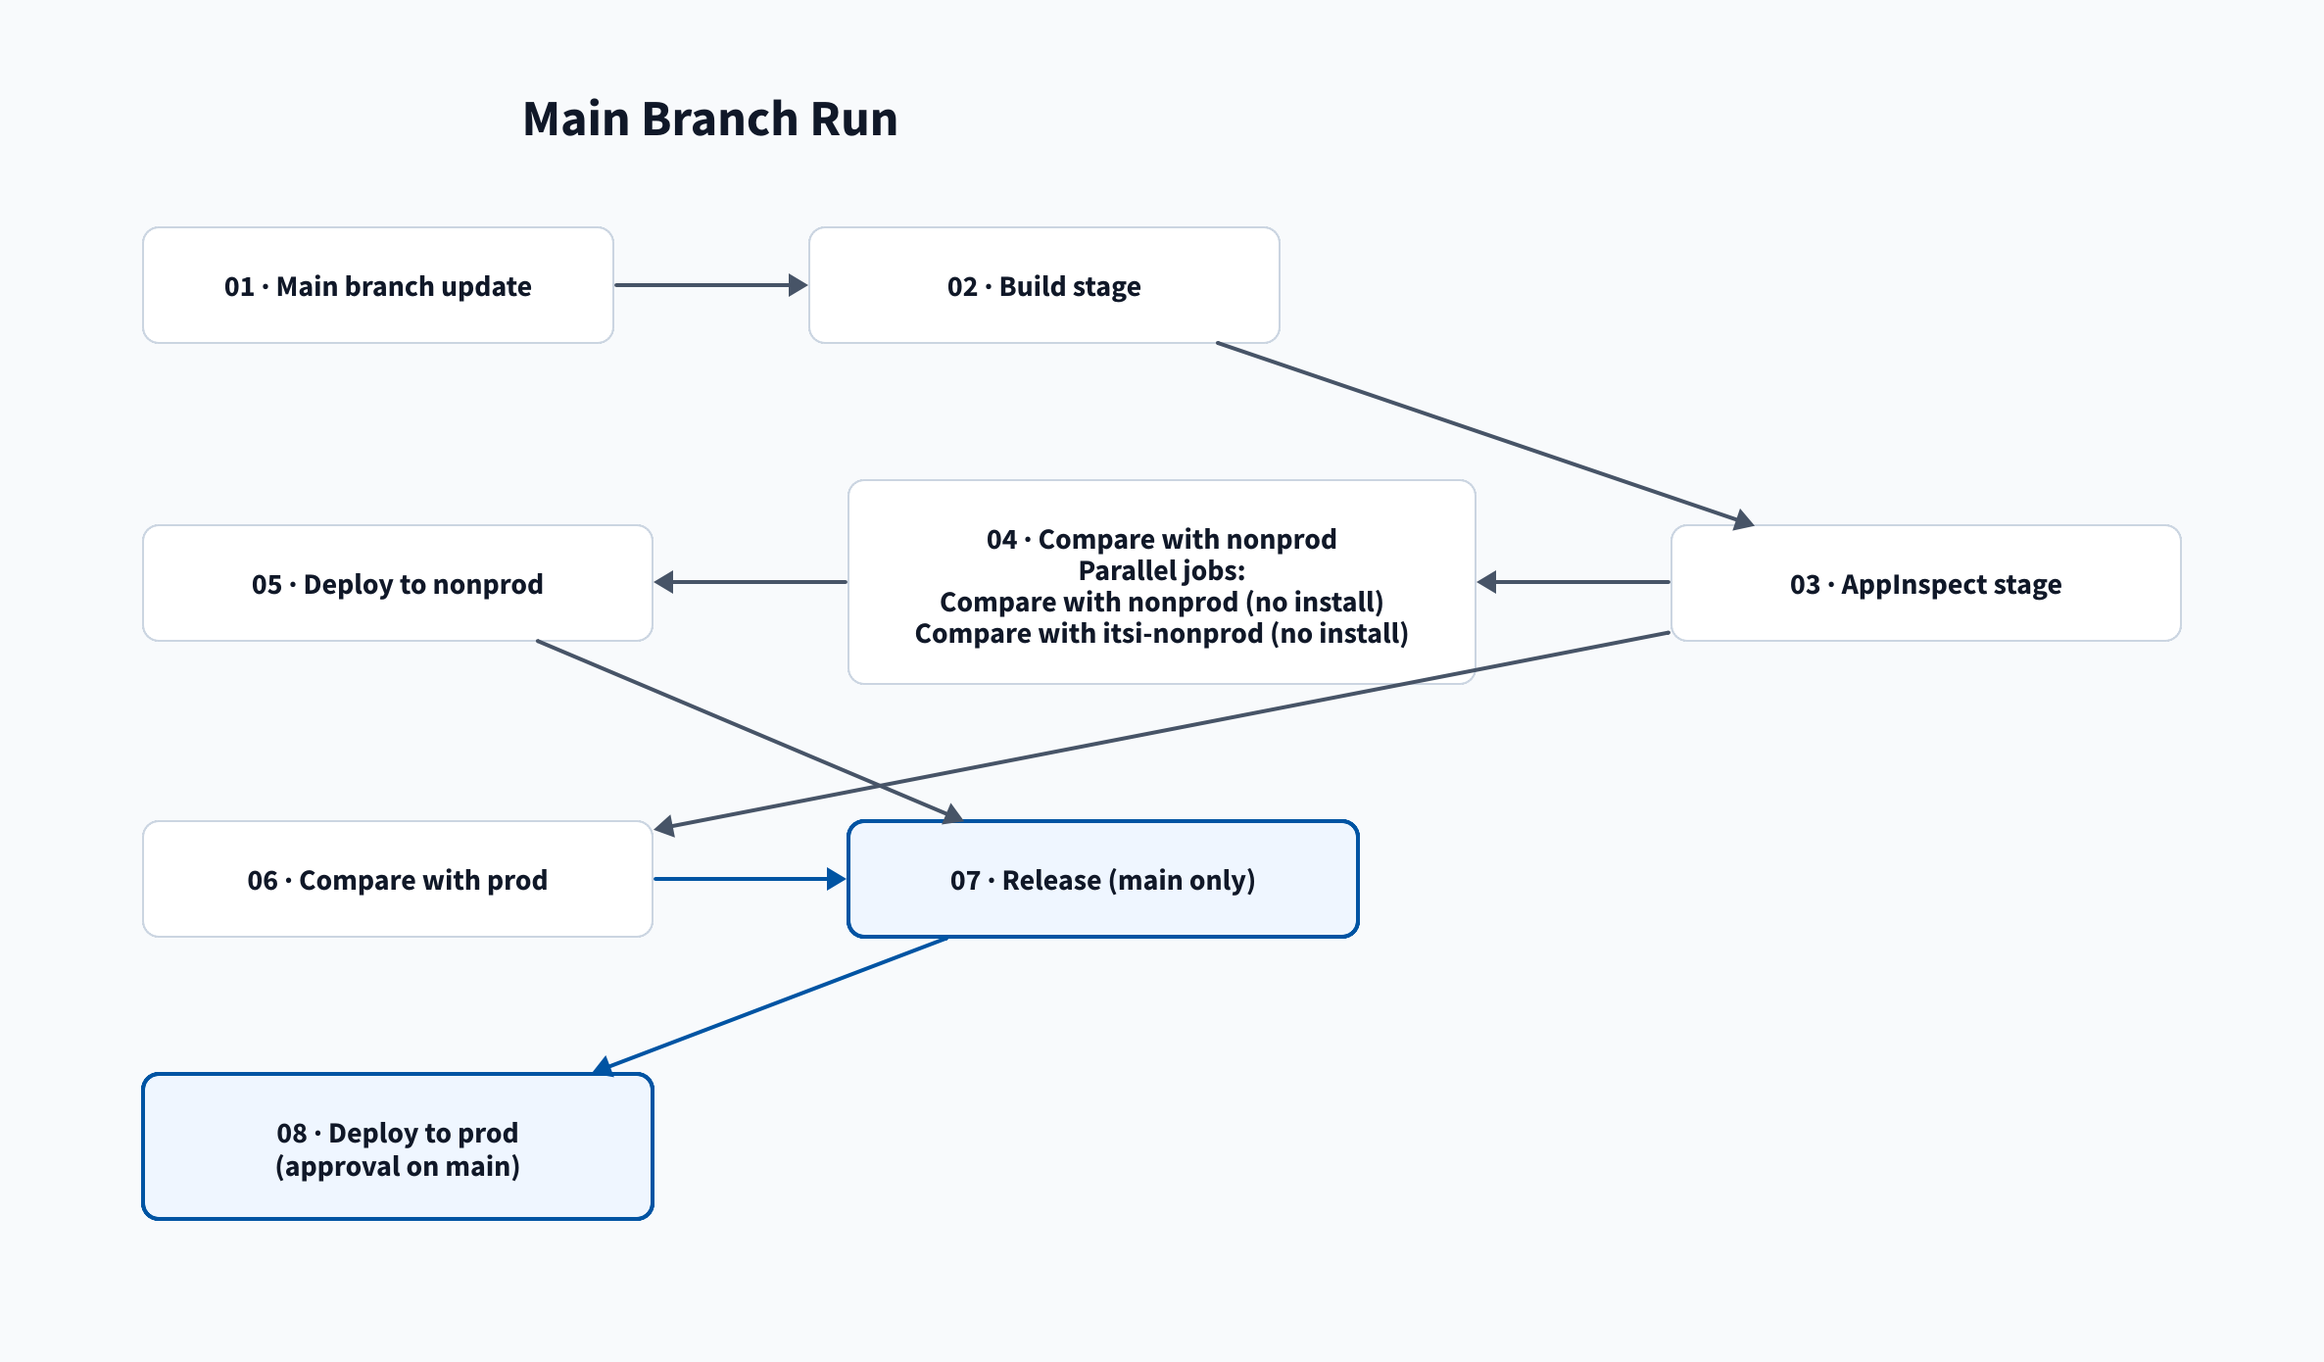
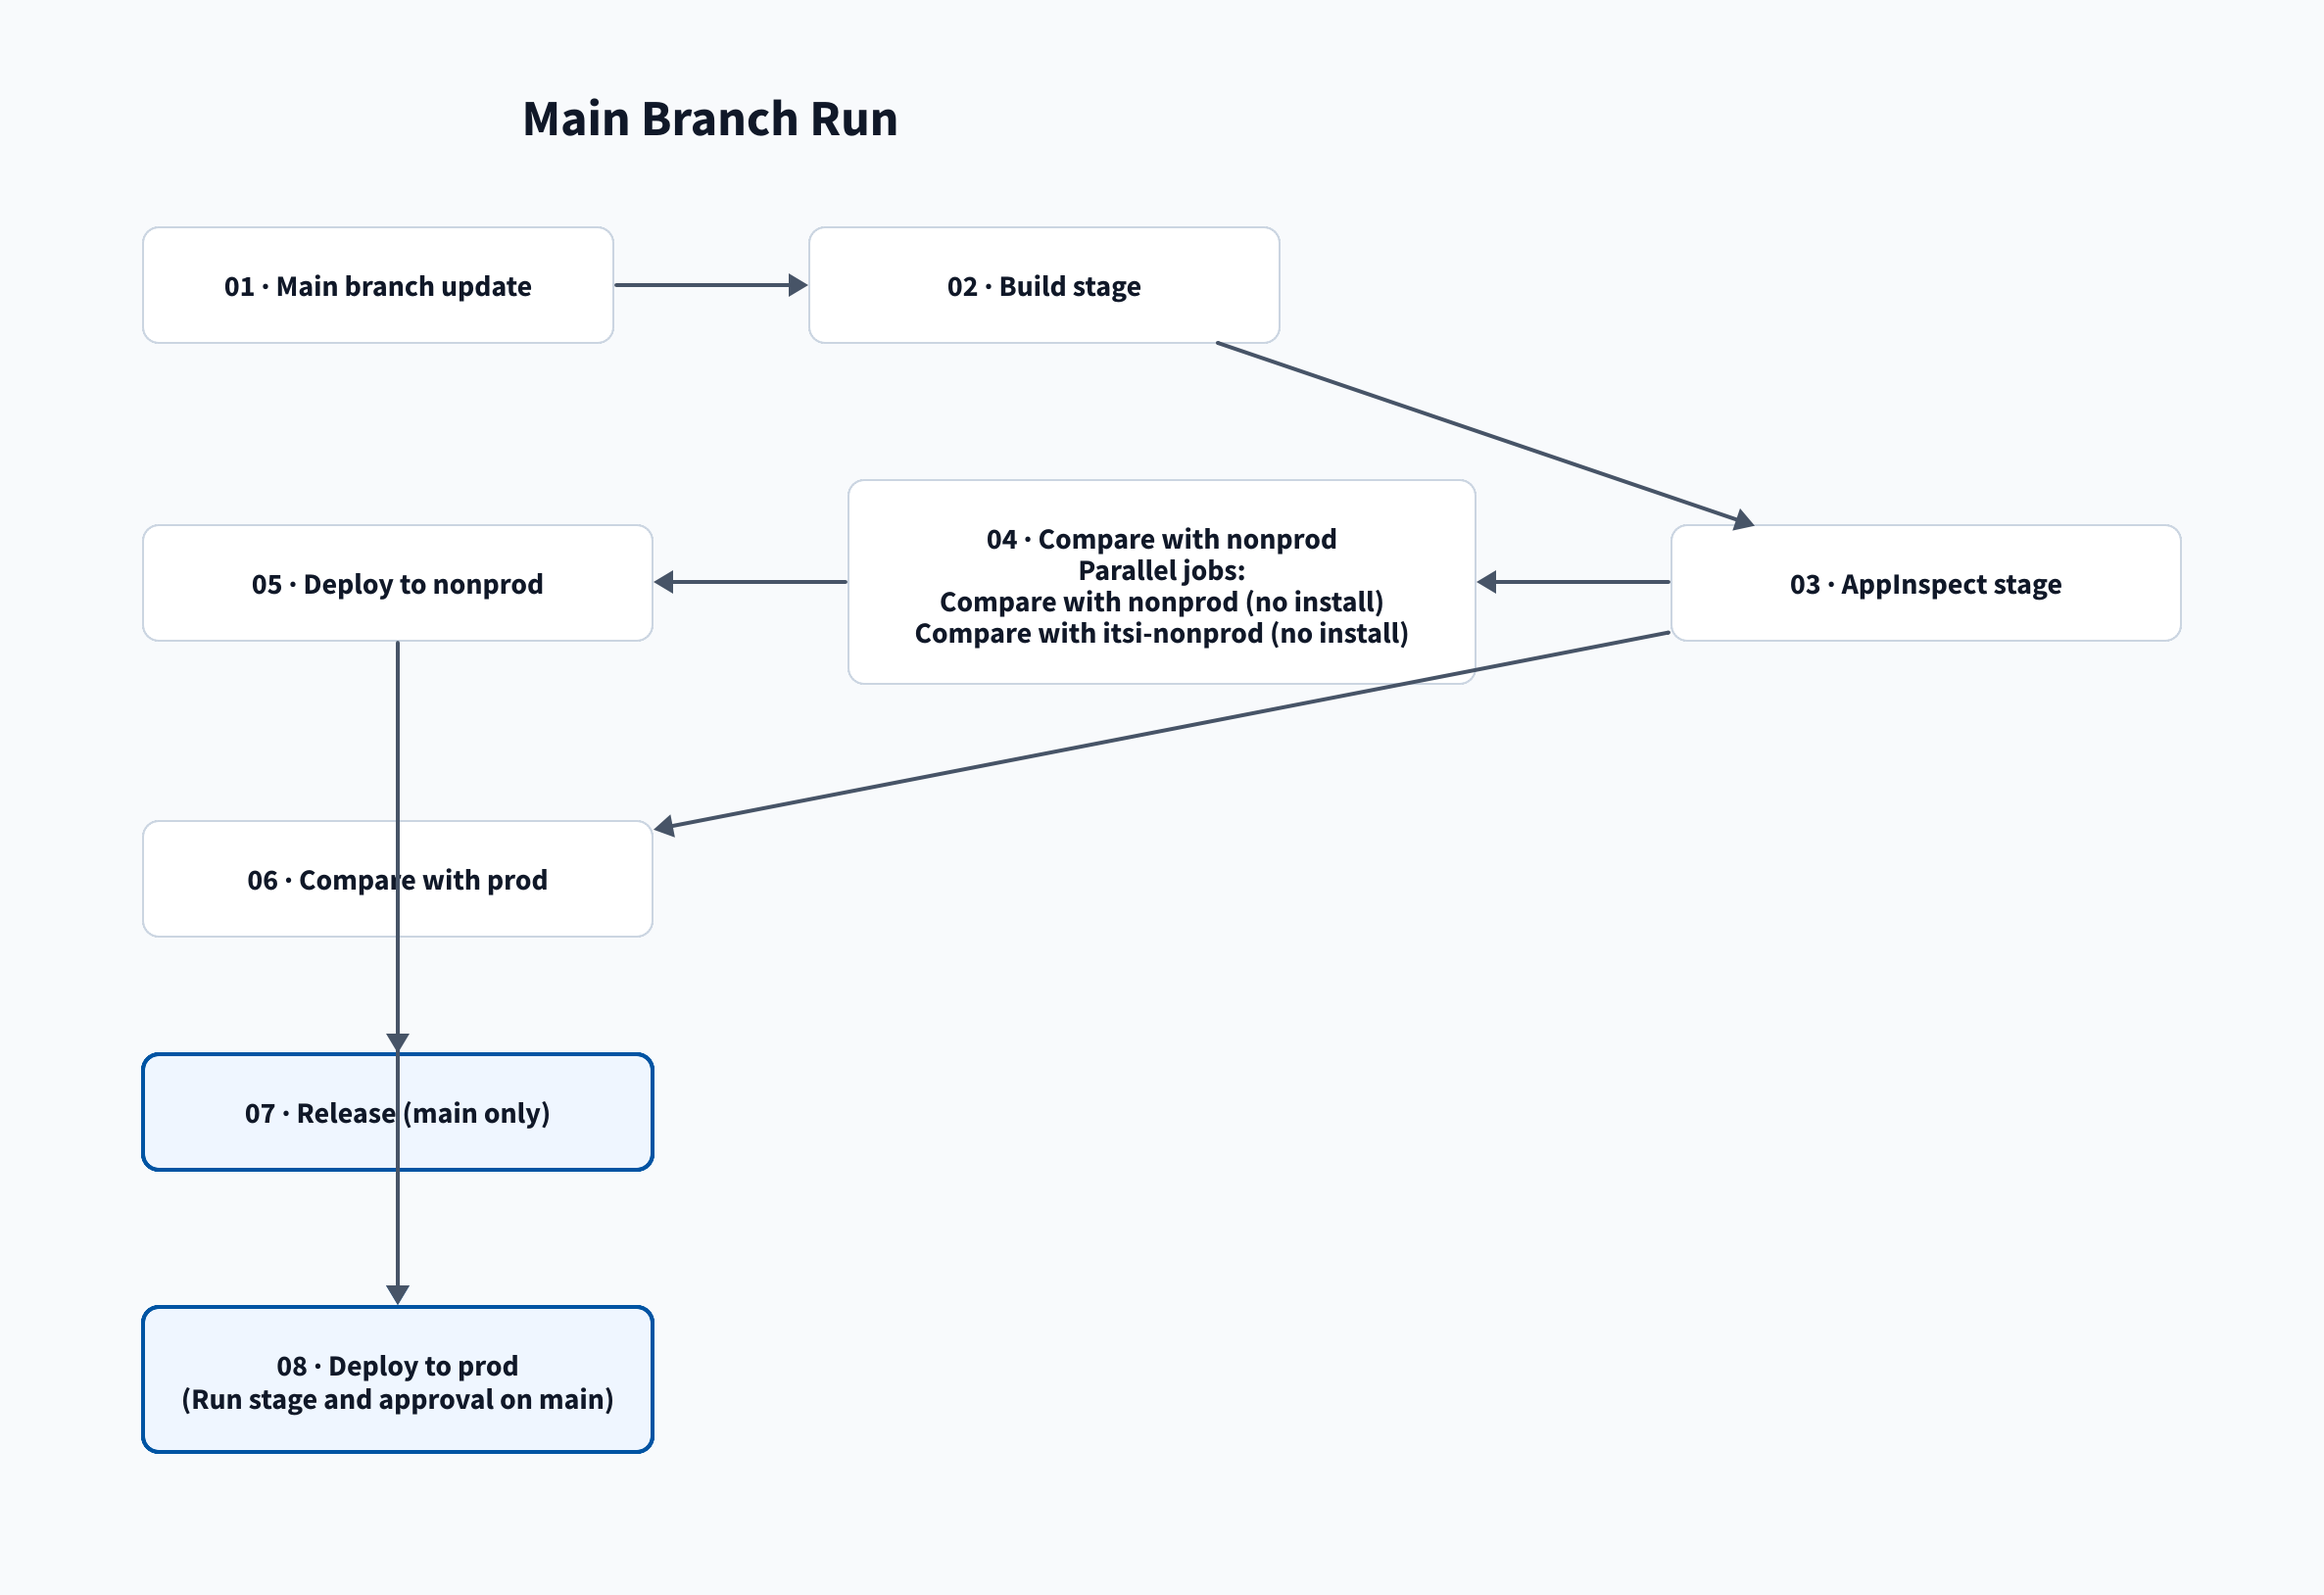
feat: Release runs after the nonprod deploy without waiting for prod
Release depends on nonprod only. Deploy to prod depends on Release and
Compare with prod.

Assisted-by: Claude:claude-opus-5-5

diff --git a/wiki/Reference/Stages.md b/wiki/Reference/Stages.md
@@ -10,8 +10,8 @@ stages that other pipelines share.
 | 3 | `nonproddiff` | Compare with nonprod | Pull request or `main` |
 | 4 | `nonprod` | Deploy to nonprod | Pull request or `main`, after `nonproddiff` |
 | 5 | `proddiff` | Compare with prod | Pull request or `main`, after `appinspect`, in parallel with `nonprod` |
-| 6 | `release` | Release | `main`, after `nonprod` and `proddiff` |
-| 7 | `prod` | Deploy to prod | `main`, after `release`, after Run stage and approval |
+| 6 | `release` | Release | `main`, after `nonprod` |
+| 7 | `prod` | Deploy to prod | `main`, after `release` and `proddiff`, after Run stage and approval |
 
 The import stages, `import_nonprod` and `import_prod`, run only when an import option is selected. See
 [App: Import](/Pipelines/App#import).
@@ -133,7 +133,7 @@ tools, sets up the ACS CLI, checks the stack status, and exports the installed a
 
 Stage `release`:
 
-- **Does:** runs after `nonprod` and `proddiff` on `refs/heads/main`.
+- **Does:** runs after `nonprod` on `refs/heads/main`. It does not wait for prod.
 - **Inputs:** `dist`, the app repo checkout, the repository credentials, and the `splunk-apps` package feed.
 - **Outputs:** the version tag, and the Universal Package in the feed.
 
@@ -154,7 +154,7 @@ Job `release` tags the app commit and publishes the package. Its steps, in order
 
 Stage `prod`, displayed as **Deploy to prod**:
 
-- **Does:** runs after **Release**, on successful `refs/heads/main` runs, only when a person selects **Run stage**.
+- **Does:** runs after **Release** and **Compare with prod**, on successful `refs/heads/main` runs, only when a person selects **Run stage**.
 - **Inputs:** `dist`, the groups `splunk-appinspect` and `splunk-prod`, and the `splunk-prod` environment.
 - **Outputs:** the app installed through ACS. The [Proddiff stage](#proddiff) holds the prod compare for the run.
 - **Approval:** waits for the `splunk-prod` Approvals check. Nothing installs without approval. A rejection stops the

diff --git a/wiki/Pipelines/App.md b/wiki/Pipelines/App.md
@@ -124,7 +124,7 @@ If the tag or package is missing, see [Release troubleshooting](/Troubleshooting
 On a `main` run, **Deploy to prod** does not start by itself. An approval for **Compare with prod** does not
 start it.
 
-1. Wait for **Release** to succeed.
+1. Wait for **Release** and **Compare with prod** to succeed.
 2. Open the run.
 3. On the **Deploy to prod** stage, select **Run stage**.
 4. Approve the `splunk-prod` check as described in [Deploy: Approve a stage](/Pipelines/Deploy#approve-a-stage).
